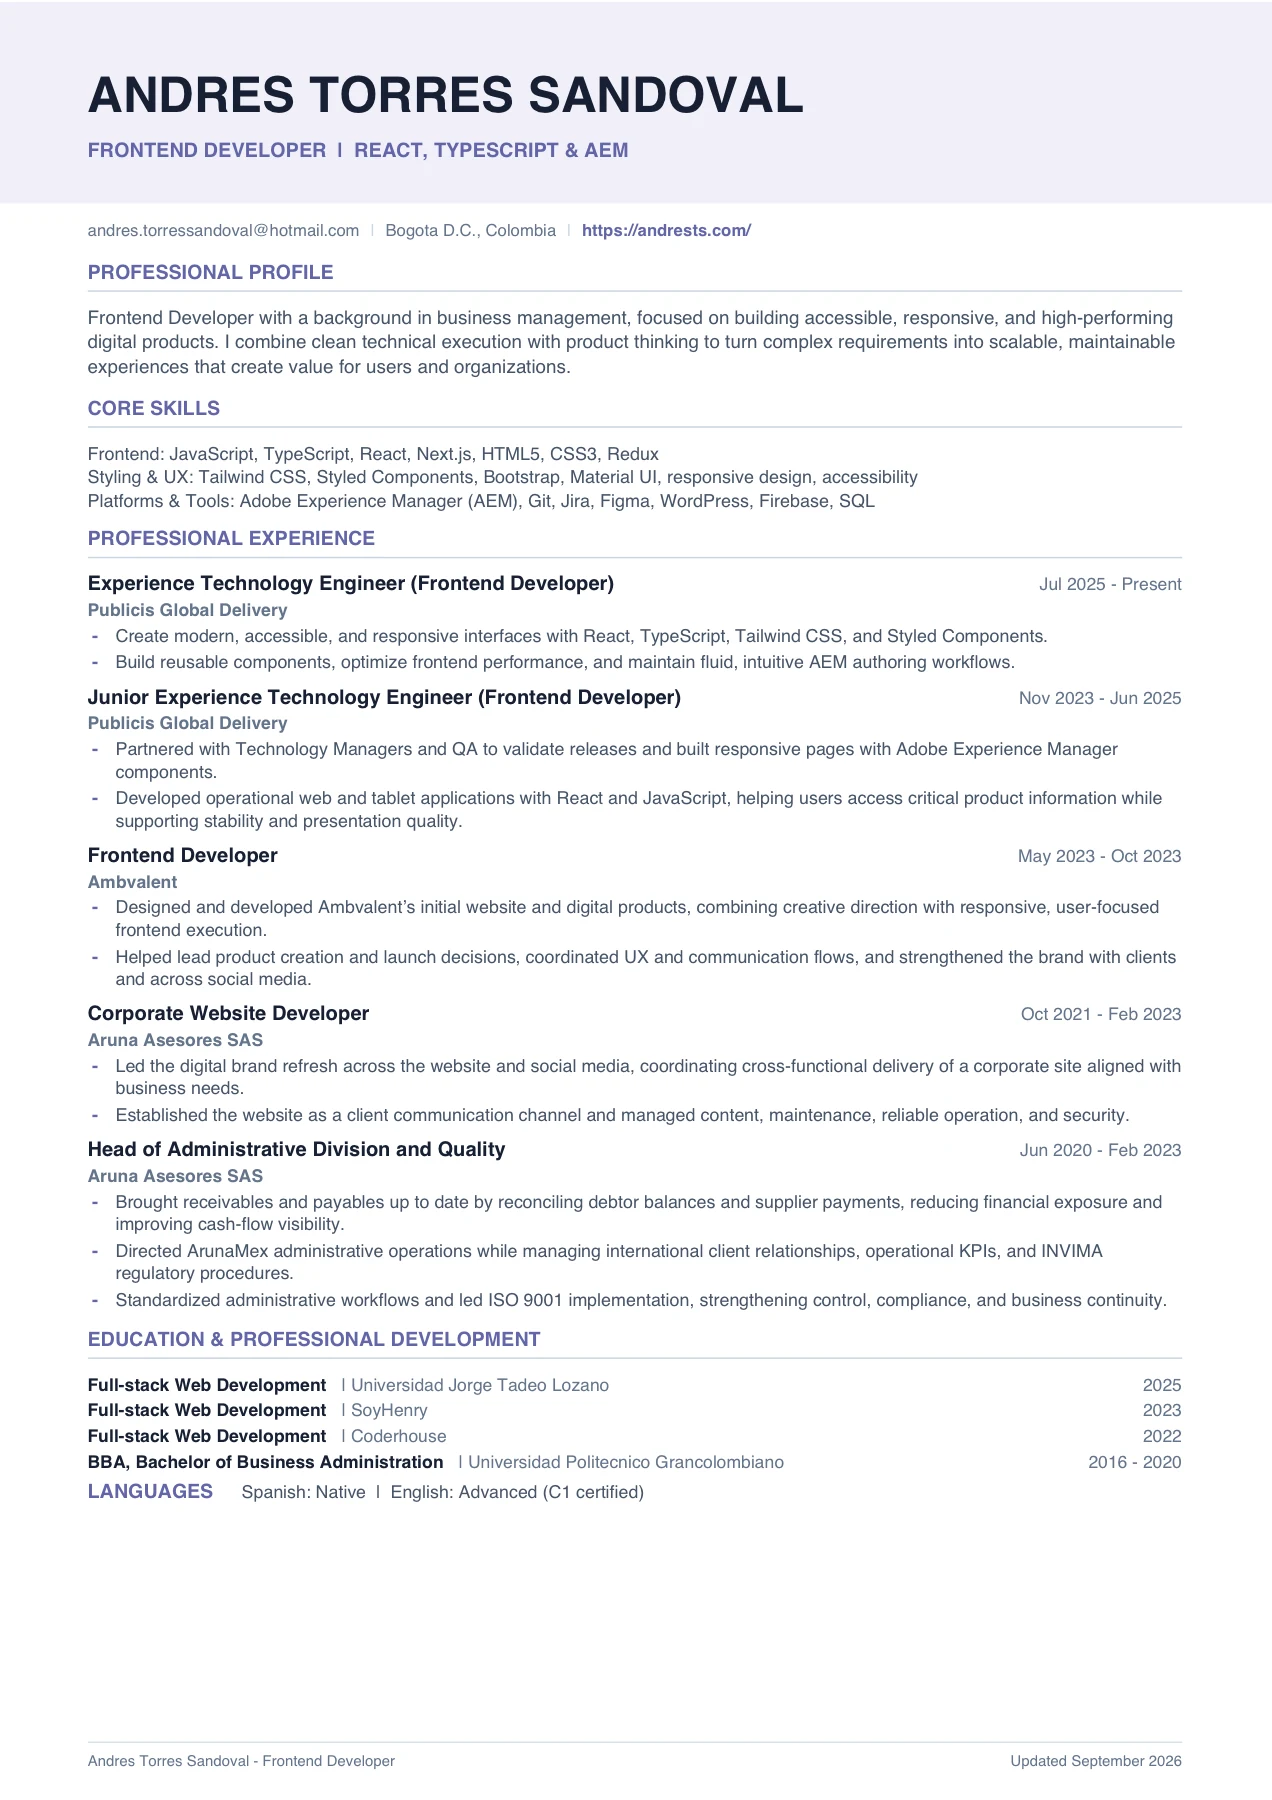
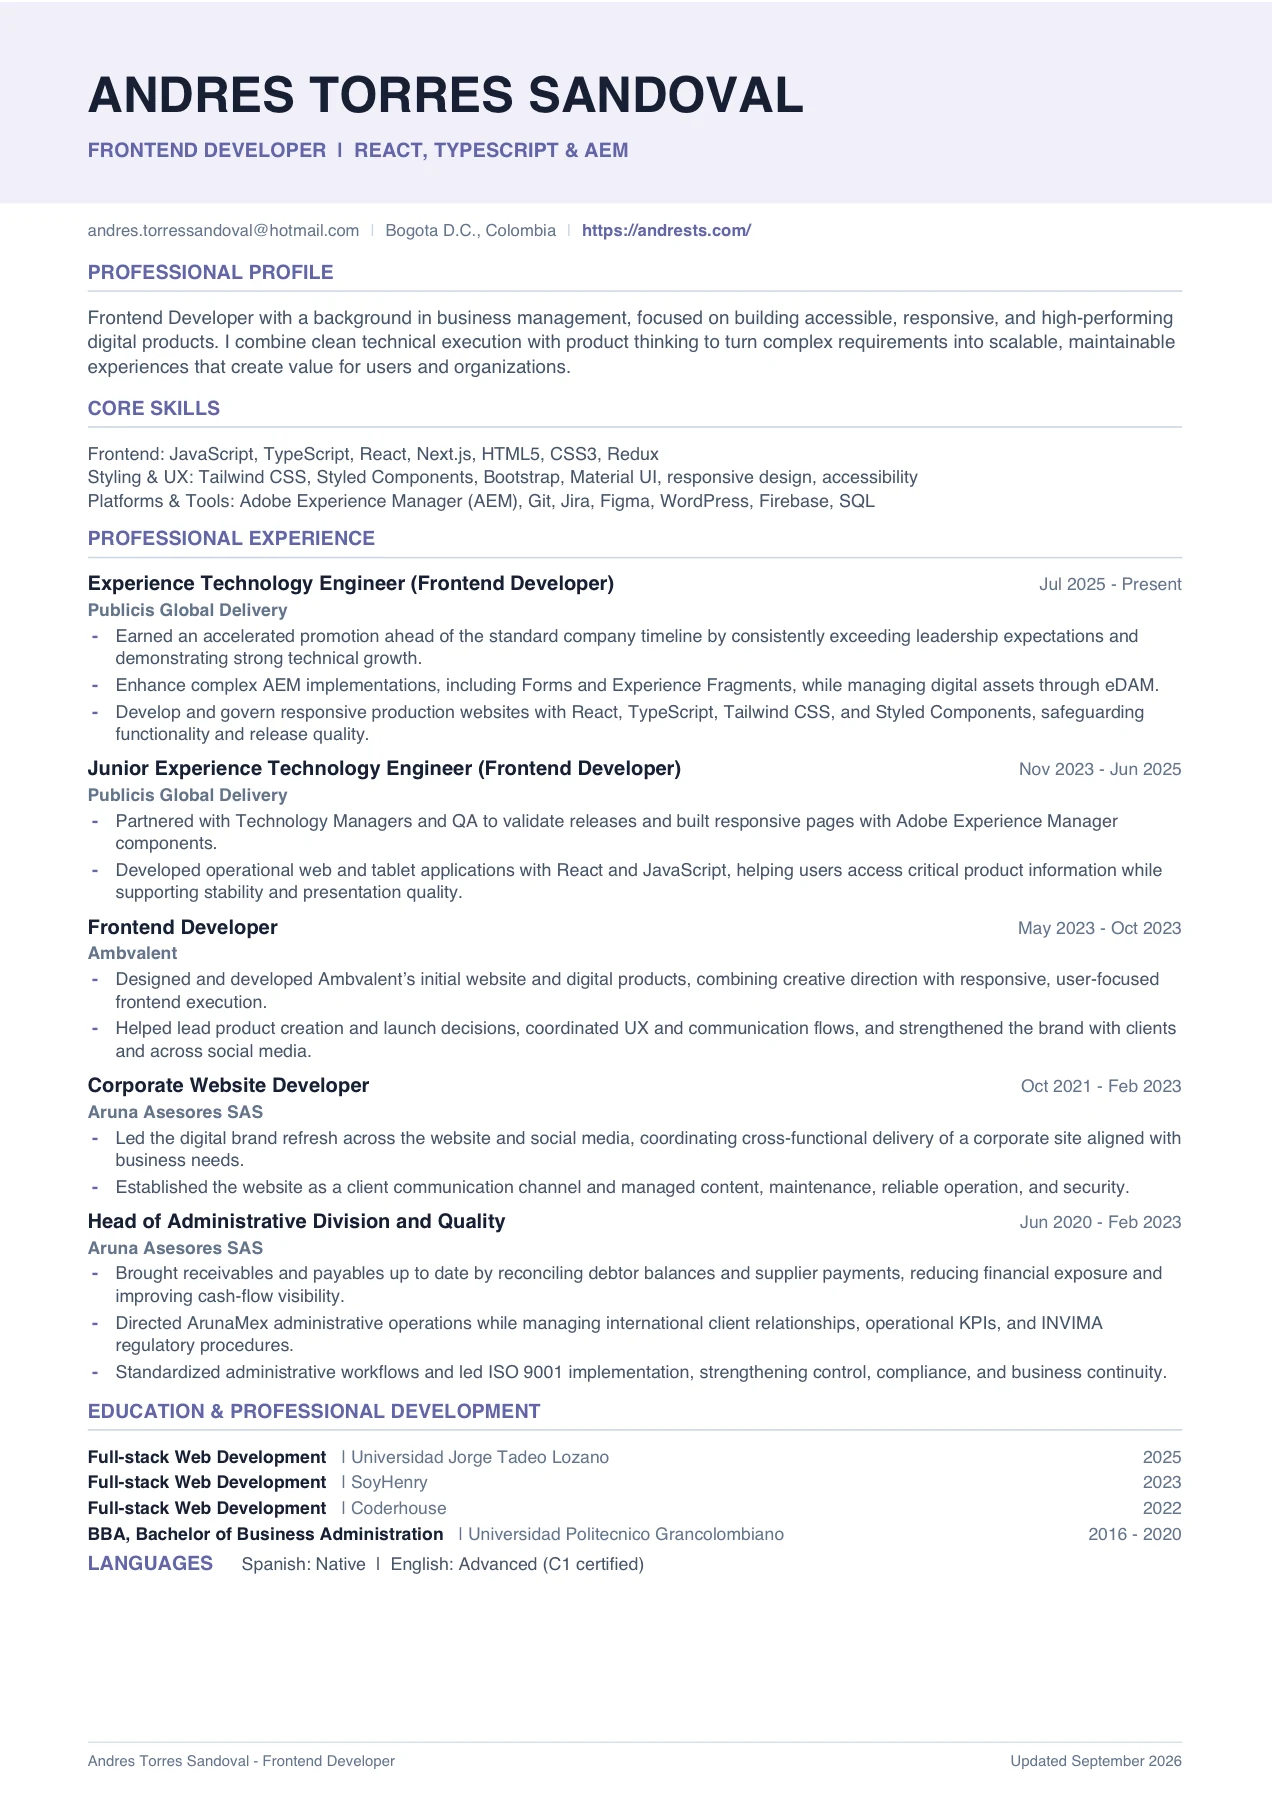
Show accelerated frontend progression

Changed region(s): [[0.0613, 0.3422, 0.9198, 0.8711]]

diff --git a/src/data/experienceData.js b/src/data/experienceData.js
@@ -6,8 +6,11 @@ export const experienceData = [
         startYear: 'Jul 2025',
         endYear: 'Present',
         achievements: [
-            'Create modern, accessible, and responsive interfaces with React, TypeScript, Tailwind CSS, and Styled Components.',
-            'Build reusable components, optimize frontend performance, and keep AEM authoring workflows fluid and intuitive.'
+            'Earned an accelerated promotion ahead of the company’s standard progression timeline by consistently exceeding leadership expectations and demonstrating strong technical growth.',
+            'Enhance complex Adobe Experience Manager implementations, including Forms and Experience Fragments, to support evolving business and authoring requirements.',
+            'Use eDAM to organize and manage digital assets, helping maintain accurate, consistent, and efficient content delivery across web pages.',
+            'Contribute to the development and governance of production websites, safeguarding functionality, visual quality, responsiveness, and release readiness.',
+            'Apply the frontend and cross-functional experience gained in the previous role to deliver accessible, reusable interfaces with React, TypeScript, Tailwind CSS, and Styled Components.'
         ]
     },
     {
